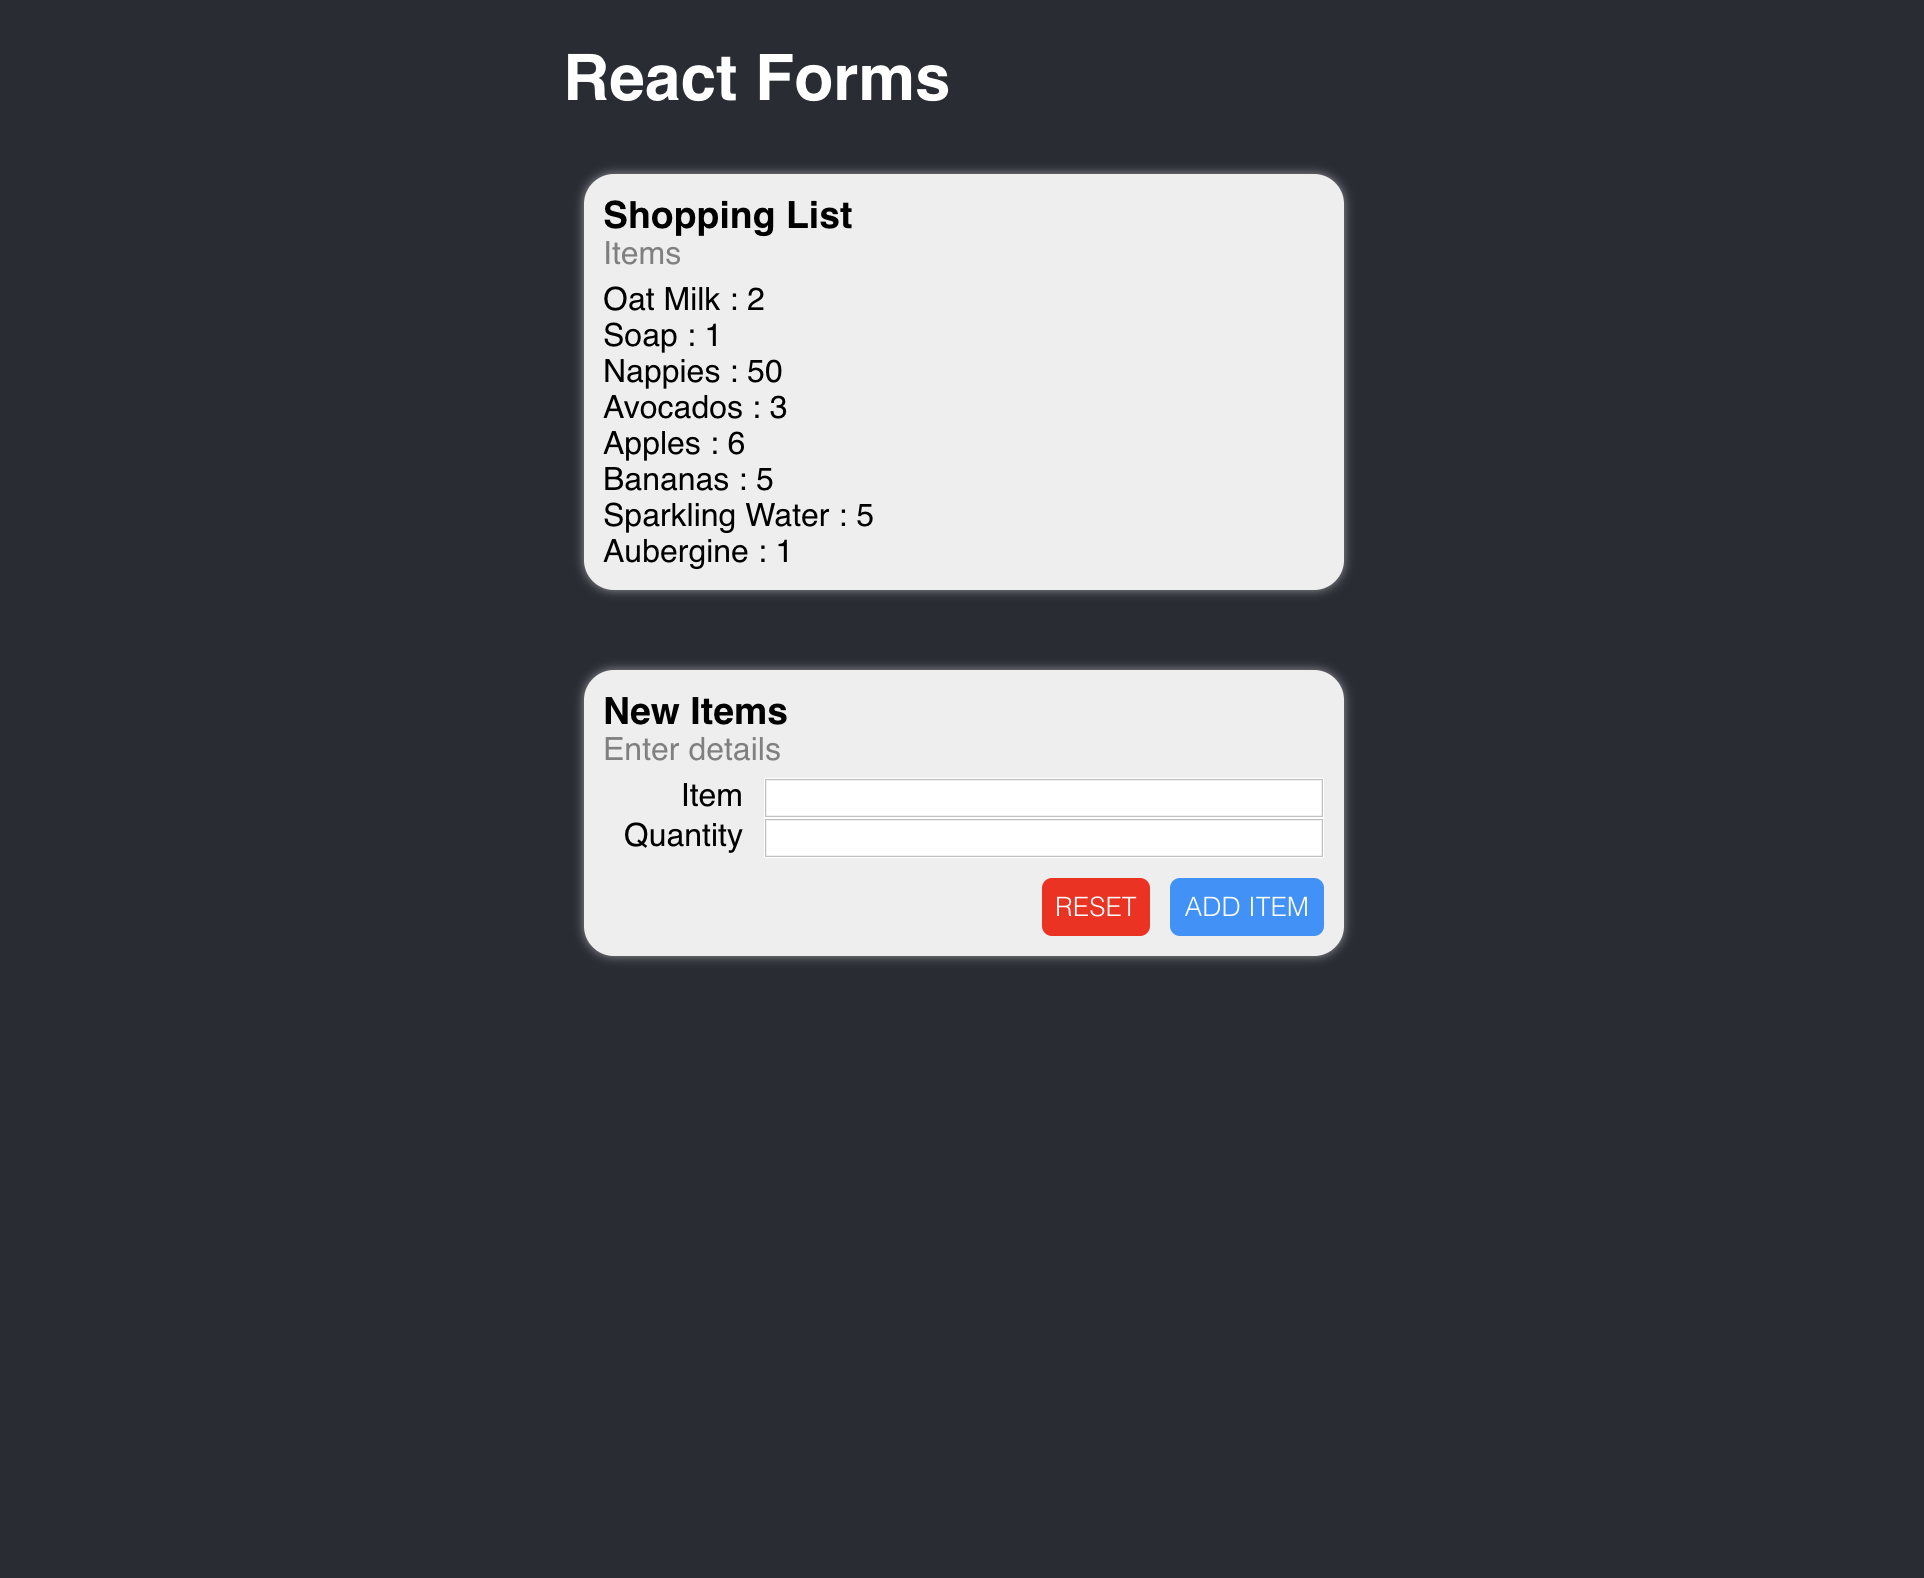
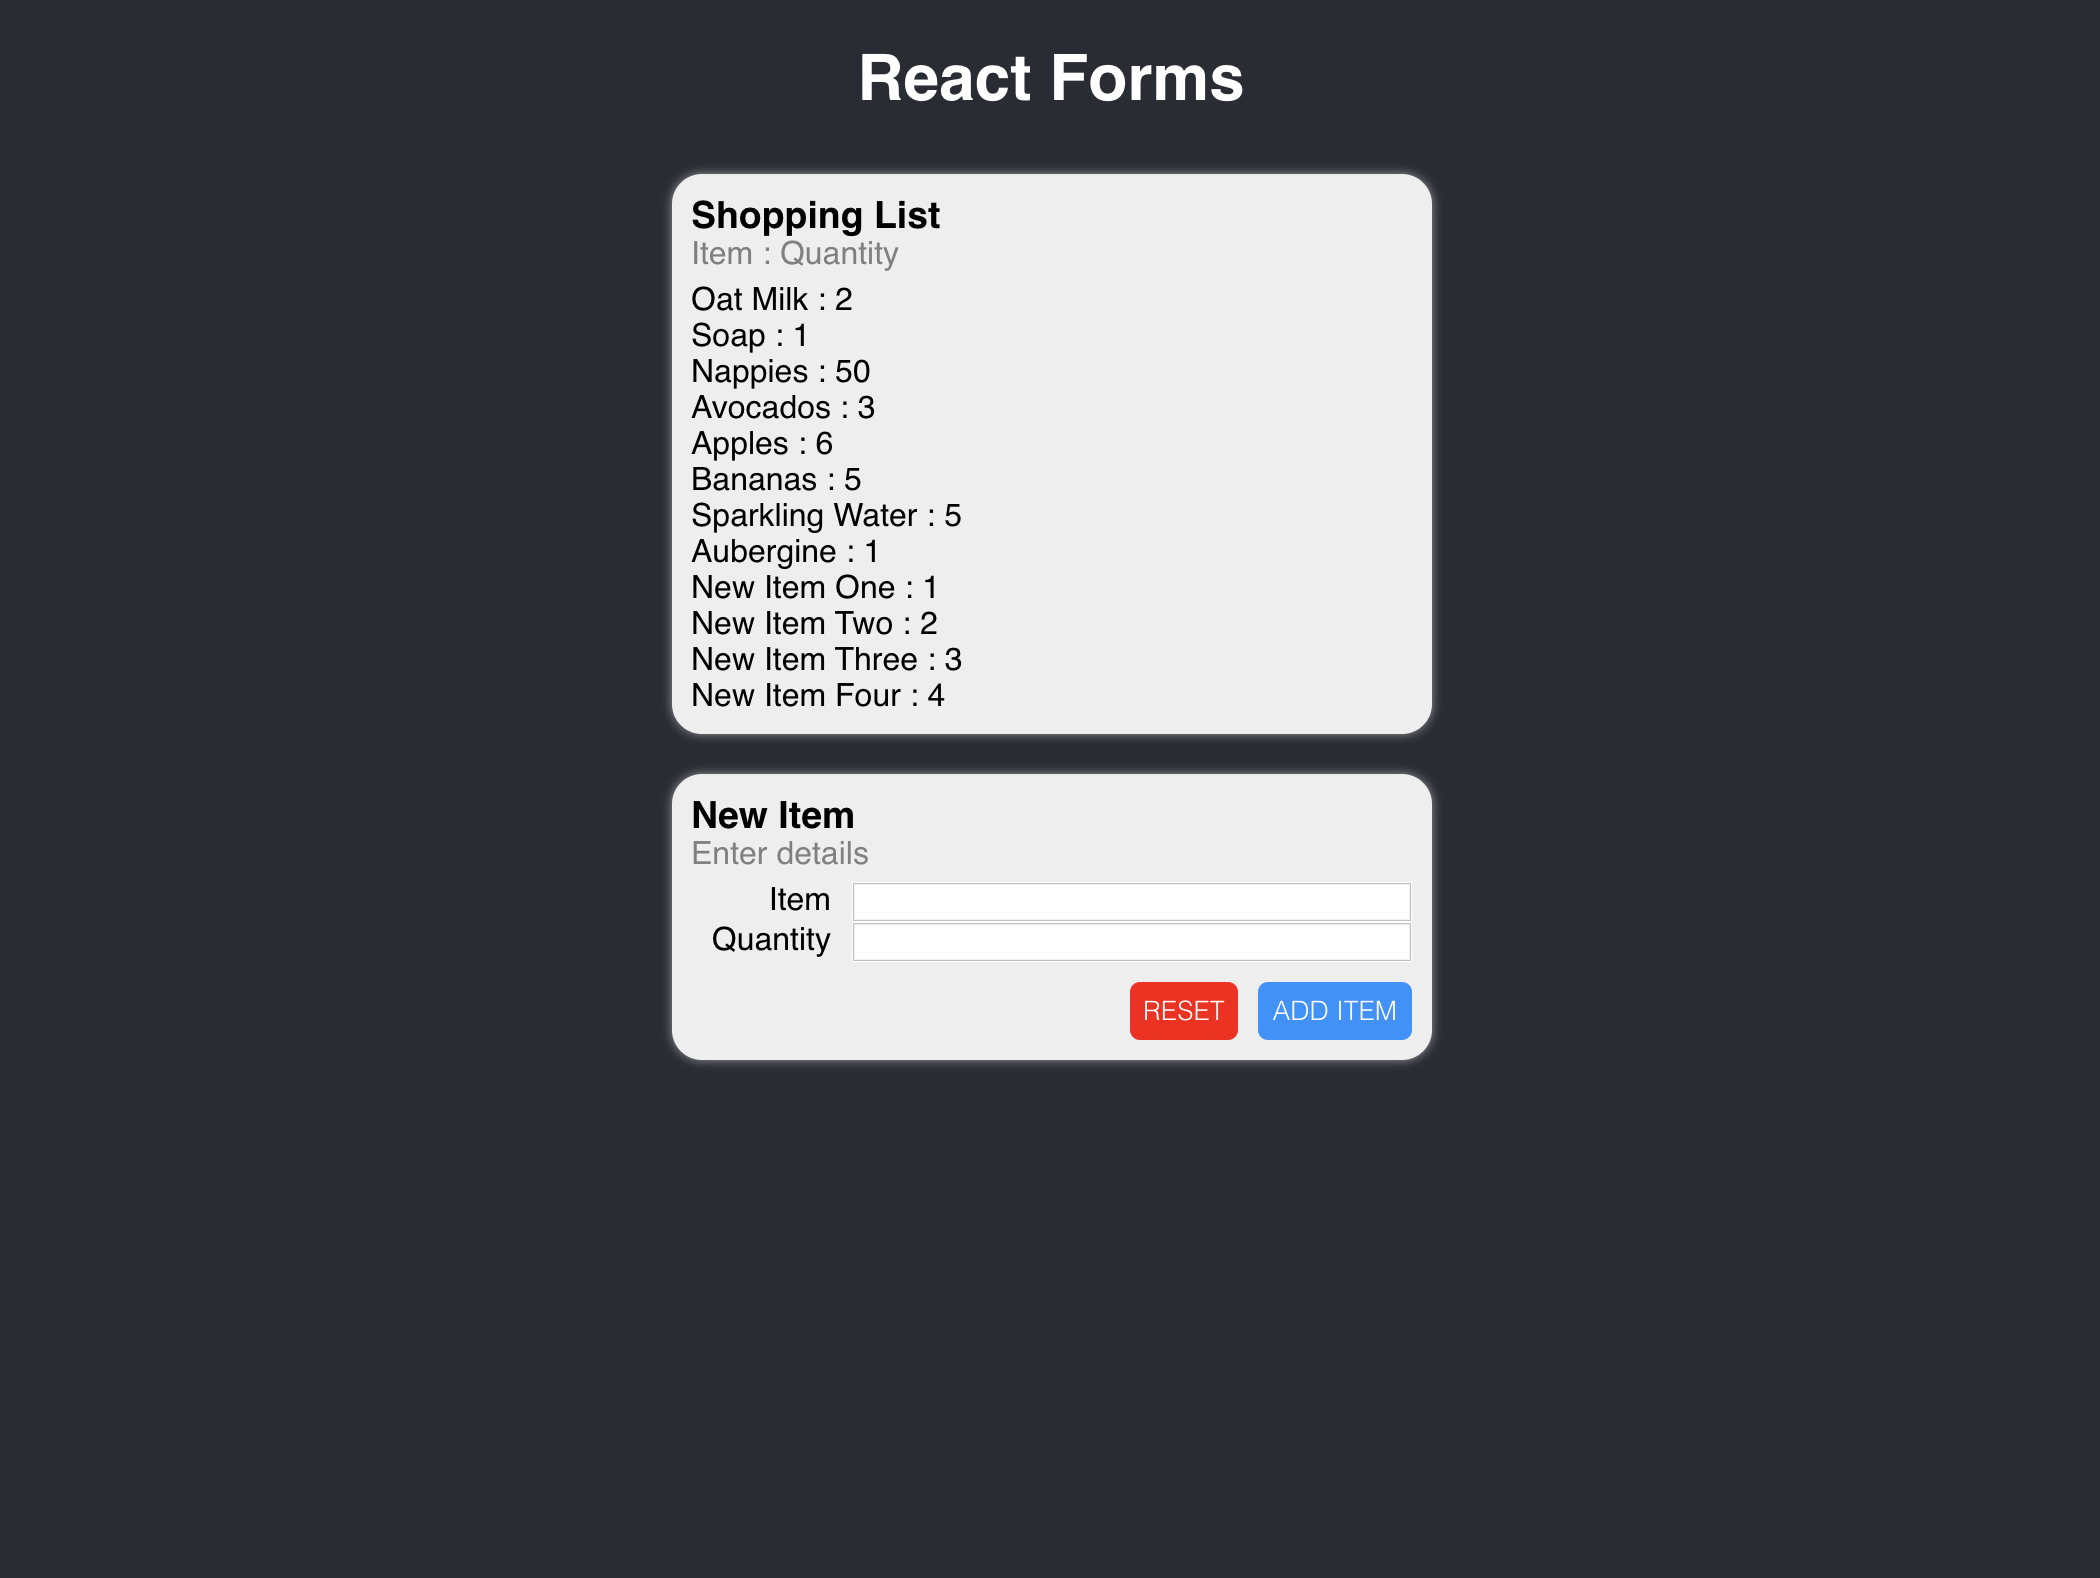
readme screenshot updated

Changed region(s): [[0.2807, 0.0932, 0.7173, 0.6831], [0.2807, 0.0311, 0.5925, 0.0621]]

diff --git a/src/App.js b/src/App.js
@@ -48,7 +48,7 @@ class App extends Component {
       <div className={`Main ${devMode && 'devMode'}`}>
         <div className={`Card ${this.props.devMode && 'devMode'}`}>
           <h3>Shopping List</h3>
-          <h4>Items</h4>
+          <h4>Item : Quantity</h4>
         {this.renderList()}
         </div>
         {/* <CardList
@@ -58,7 +58,7 @@ class App extends Component {
           list={this.state.list}/> */}
         <CardForm 
           devMode={devMode}
-          cardHeader='New Items'
+          cardHeader='New Item'
           cardSubHeader='Enter details'
           addItem={this.addItem}/>
       </div>

diff --git a/src/App.scss b/src/App.scss
@@ -19,6 +19,10 @@ a {
   color:black;
 }
 
+h1 {
+  text-align: center;
+}
+
 h4 {
   color: grey;
   font-weight: 400;
@@ -54,8 +58,8 @@ h4 {
     // flex: 1;
     display: grid;
     grid-template-columns: 1fr;
-    grid-column-gap: $spacing;
-    grid-row-gap: $spacing;
+    // grid-column-gap: $spacing;
+    // grid-row-gap: $spacing;
     &.devMode{
       border: $borderDev solid yellow;
     }
@@ -146,7 +150,6 @@ form {
 
 
 .detail-row, .form-row {
-   
     display: flex;
     &.devMode {
       border: $borderDev solid lightblue;
